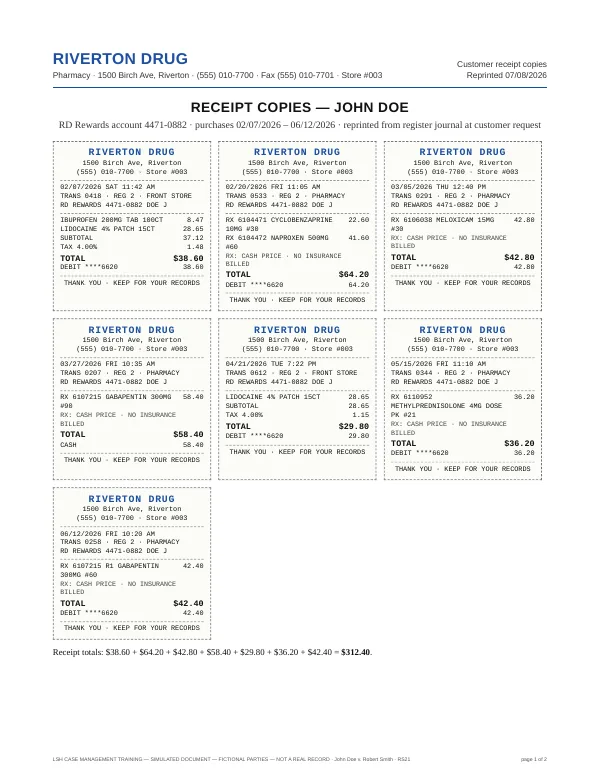
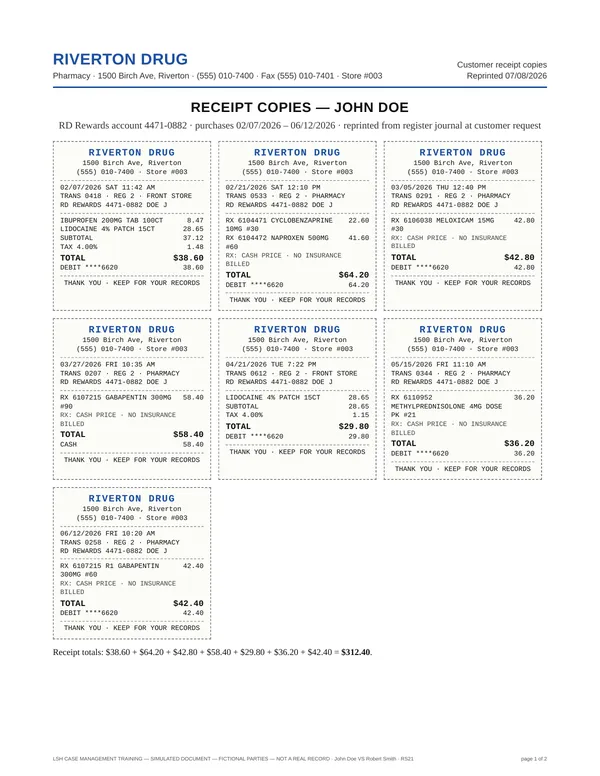
RS21: the urgent care's prescriptions are filled 02/21/2026 at 12:10 PM, after John's ED discharge
John was in Riverton General from 02/20/2026 10:49 to 02/21/2026 11:20 (RS97), so the Riverton Drug receipt and the
two fills (cyclobenzaprine and naproxen, N. Patel, PA-C, $64.20) move to Saturday 02/21/2026; amounts unchanged, the
receipts still total $312.40. SPEC.md follows; RS21 re-rendered with its thumbnail. john-doe-figures.cjs now fails any
case document, other than Riverton General's own, that times an event for John inside that window.

Claude-Session: https://claude.ai/code/session_0136HbZXnBxzpemCgJgoiiWb

diff --git a/documents/case-flow/html/RS21.html b/documents/case-flow/html/RS21.html
@@ -16,7 +16,7 @@
 <div class="subtitle">RD Rewards account 4471-0882 · purchases 02/07/2026 – 06/12/2026 · reprinted from register journal at customer request</div>
 <div class="rcpts">
 <div class="rcpt"><div class="rh">RIVERTON DRUG</div><div class="c">1500 Birch Ave, Riverton<br>(555) 010-7400 · Store #003</div><div class="sep"></div><div>02/07/2026 SAT 11:42 AM</div><div>TRANS 0418 · REG 2 · FRONT STORE</div><div>RD REWARDS 4471-0882 DOE J</div><div class="sep"></div><div class="li"><span>IBUPROFEN 200MG TAB 100CT</span><span>8.47</span></div><div class="li"><span>LIDOCAINE 4% PATCH 15CT</span><span>28.65</span></div><div class="li"><span>SUBTOTAL</span><span>37.12</span></div><div class="li"><span>TAX 4.00%</span><span>1.48</span></div><div class="li tot"><span>TOTAL</span><span>$38.60</span></div><div class="li"><span>DEBIT ****6620</span><span>38.60</span></div><div class="sep"></div><div class="c">THANK YOU · KEEP FOR YOUR RECORDS</div></div>
-<div class="rcpt"><div class="rh">RIVERTON DRUG</div><div class="c">1500 Birch Ave, Riverton<br>(555) 010-7400 · Store #003</div><div class="sep"></div><div>02/20/2026 FRI 11:05 AM</div><div>TRANS 0533 · REG 2 · PHARMACY</div><div>RD REWARDS 4471-0882 DOE J</div><div class="sep"></div><div class="li"><span>RX 6104471 CYCLOBENZAPRINE 10MG #30</span><span>22.60</span></div><div class="li"><span>RX 6104472 NAPROXEN 500MG #60</span><span>41.60</span></div><div class="small2">RX: CASH PRICE · NO INSURANCE BILLED</div><div class="li tot"><span>TOTAL</span><span>$64.20</span></div><div class="li"><span>DEBIT ****6620</span><span>64.20</span></div><div class="sep"></div><div class="c">THANK YOU · KEEP FOR YOUR RECORDS</div></div>
+<div class="rcpt"><div class="rh">RIVERTON DRUG</div><div class="c">1500 Birch Ave, Riverton<br>(555) 010-7400 · Store #003</div><div class="sep"></div><div>02/21/2026 SAT 12:10 PM</div><div>TRANS 0533 · REG 2 · PHARMACY</div><div>RD REWARDS 4471-0882 DOE J</div><div class="sep"></div><div class="li"><span>RX 6104471 CYCLOBENZAPRINE 10MG #30</span><span>22.60</span></div><div class="li"><span>RX 6104472 NAPROXEN 500MG #60</span><span>41.60</span></div><div class="small2">RX: CASH PRICE · NO INSURANCE BILLED</div><div class="li tot"><span>TOTAL</span><span>$64.20</span></div><div class="li"><span>DEBIT ****6620</span><span>64.20</span></div><div class="sep"></div><div class="c">THANK YOU · KEEP FOR YOUR RECORDS</div></div>
 <div class="rcpt"><div class="rh">RIVERTON DRUG</div><div class="c">1500 Birch Ave, Riverton<br>(555) 010-7400 · Store #003</div><div class="sep"></div><div>03/05/2026 THU 12:40 PM</div><div>TRANS 0291 · REG 2 · PHARMACY</div><div>RD REWARDS 4471-0882 DOE J</div><div class="sep"></div><div class="li"><span>RX 6106038 MELOXICAM 15MG #30</span><span>42.80</span></div><div class="small2">RX: CASH PRICE · NO INSURANCE BILLED</div><div class="li tot"><span>TOTAL</span><span>$42.80</span></div><div class="li"><span>DEBIT ****6620</span><span>42.80</span></div><div class="sep"></div><div class="c">THANK YOU · KEEP FOR YOUR RECORDS</div></div>
 <div class="rcpt"><div class="rh">RIVERTON DRUG</div><div class="c">1500 Birch Ave, Riverton<br>(555) 010-7400 · Store #003</div><div class="sep"></div><div>03/27/2026 FRI 10:35 AM</div><div>TRANS 0207 · REG 2 · PHARMACY</div><div>RD REWARDS 4471-0882 DOE J</div><div class="sep"></div><div class="li"><span>RX 6107215 GABAPENTIN 300MG #90</span><span>58.40</span></div><div class="small2">RX: CASH PRICE · NO INSURANCE BILLED</div><div class="li tot"><span>TOTAL</span><span>$58.40</span></div><div class="li"><span>CASH</span><span>58.40</span></div><div class="sep"></div><div class="c">THANK YOU · KEEP FOR YOUR RECORDS</div></div>
 <div class="rcpt"><div class="rh">RIVERTON DRUG</div><div class="c">1500 Birch Ave, Riverton<br>(555) 010-7400 · Store #003</div><div class="sep"></div><div>04/21/2026 TUE 7:22 PM</div><div>TRANS 0612 · REG 2 · FRONT STORE</div><div>RD REWARDS 4471-0882 DOE J</div><div class="sep"></div><div class="li"><span>LIDOCAINE 4% PATCH 15CT</span><span>28.65</span></div><div class="li"><span>SUBTOTAL</span><span>28.65</span></div><div class="li"><span>TAX 4.00%</span><span>1.15</span></div><div class="li tot"><span>TOTAL</span><span>$29.80</span></div><div class="li"><span>DEBIT ****6620</span><span>29.80</span></div><div class="sep"></div><div class="c">THANK YOU · KEEP FOR YOUR RECORDS</div></div>
@@ -45,8 +45,8 @@
 <h3 class="sans">Prescriptions dispensed</h3>
 <table class="ledger compact">
   <thead><tr><th>Fill date</th><th>Rx #</th><th>Drug / strength / form</th><th class="num">Qty</th><th class="num">Days</th><th>Directions</th><th style="white-space:nowrap">Prescriber</th><th>Plan</th><th class="num">Pt paid</th></tr></thead>
-  <tr><td>02/20/2026</td><td>6104471</td><td>Cyclobenzaprine 10 mg tab</td><td class="num">30</td><td class="num">30</td><td>1 tab at bedtime as needed for spasm</td><td style="white-space:nowrap">N. Patel, PA-C</td><td>Cash</td><td class="num">$22.60</td></tr>
-  <tr><td>02/20/2026</td><td>6104472</td><td>Naproxen 500 mg tab</td><td class="num">60</td><td class="num">30</td><td>1 tab twice daily with food</td><td style="white-space:nowrap">N. Patel, PA-C</td><td>Cash</td><td class="num">$41.60</td></tr>
+  <tr><td>02/21/2026</td><td>6104471</td><td>Cyclobenzaprine 10 mg tab</td><td class="num">30</td><td class="num">30</td><td>1 tab at bedtime as needed for spasm</td><td style="white-space:nowrap">N. Patel, PA-C</td><td>Cash</td><td class="num">$22.60</td></tr>
+  <tr><td>02/21/2026</td><td>6104472</td><td>Naproxen 500 mg tab</td><td class="num">60</td><td class="num">30</td><td>1 tab twice daily with food</td><td style="white-space:nowrap">N. Patel, PA-C</td><td>Cash</td><td class="num">$41.60</td></tr>
   <tr><td>03/05/2026</td><td>6106038</td><td>Meloxicam 15 mg tab</td><td class="num">30</td><td class="num">30</td><td>1 tab daily with food</td><td style="white-space:nowrap">A. Reyes, MD</td><td>Cash</td><td class="num">$42.80</td></tr>
   <tr><td>03/27/2026</td><td>6107215</td><td>Gabapentin 300 mg cap</td><td class="num">90</td><td class="num">45</td><td>1 cap at bedtime; may increase to 1 cap twice daily</td><td style="white-space:nowrap">A. Reyes, MD</td><td>Cash</td><td class="num">$58.40</td></tr>
   <tr><td>05/15/2026</td><td>6110952</td><td>Methylprednisolone 4 mg dose pack</td><td class="num">21</td><td class="num">6</td><td>Take as directed on package (6-day taper)</td><td style="white-space:nowrap">O. Haddad, MD</td><td>Cash</td><td class="num">$36.20</td></tr>

diff --git a/build/case-flow/documents/SPEC.md b/build/case-flow/documents/SPEC.md
@@ -37,7 +37,7 @@ overrides it**. A fact a document needs that is in neither is added to case-file
   missed 04/03, 04/07, 04/09, 04/14 (no charge); 04/21, 04/23, 04/28, 04/30, 05/04, 05/05, 05/07, 05/11, 05/12,
   05/14, 05/19, 05/21, 05/26, 05/28, 06/02, 06/04, 06/05 (17). 33 visits = $6,105.00.
 - **Missed shifts (Northgate):** 02/09, 02/10, 02/11, 02/12, 02/13, 03/05, 03/13, 05/15, 05/18/2026 — 9 × 8 h × $22.00 = $1,584.00.
-- **Riverton Drug ($312.40):** 02/07 OTC ibuprofen + lidocaine patches $38.60 · 02/20 Rx cyclobenzaprine + naproxen $64.20 ·
+- **Riverton Drug ($312.40):** 02/07 OTC ibuprofen + lidocaine patches $38.60 · 02/21 Rx cyclobenzaprine + naproxen $64.20 (urgent care's 02/20 scripts, filled after the ED discharge) ·
   03/05 Rx meloxicam $42.80 · 03/27 Rx gabapentin $58.40 · 04/21 OTC lidocaine patches $29.80 · 05/15 Rx methylprednisolone
   $36.20 · 06/12 Rx gabapentin refill $42.40.
 - **PIP (Harbor Point, $10,000.00; EMC by Dr. Sarah Spine 02/20/2026):** 03/04 Riverton Fire EMS $1,150.00 (billed $2,182.60) ·
